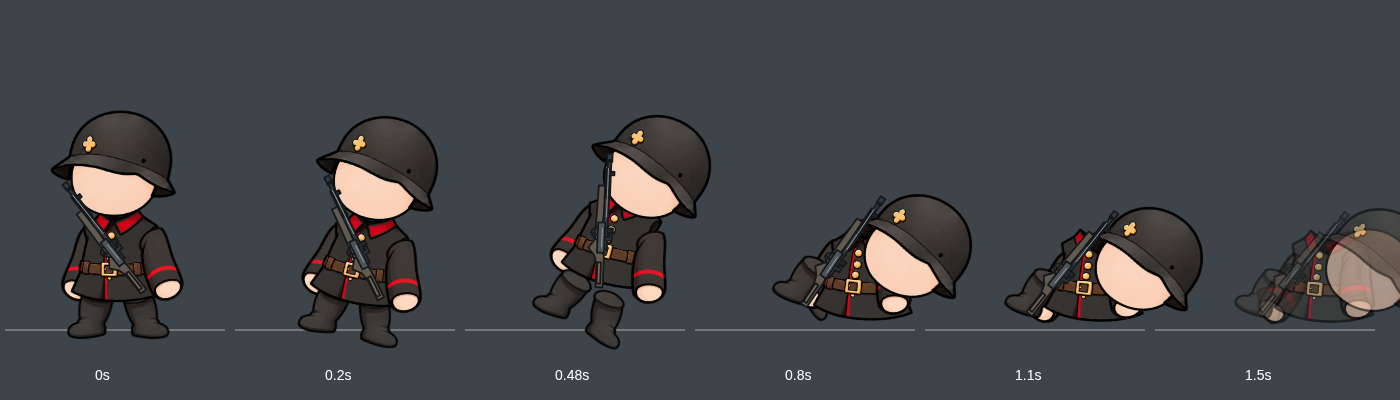
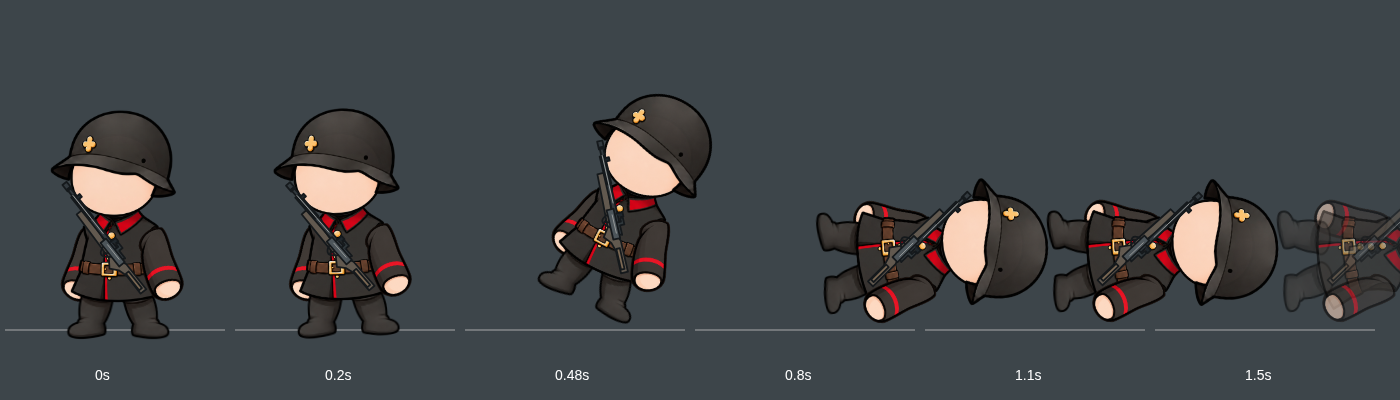
Replace death scatter with a connected body collapse and ground impact

Changed region(s): [[0.5529, 0.45, 1.0, 0.81], [0.1843, 0.27, 0.3379, 0.87], [0.3686, 0.24, 0.5221, 0.87]]

diff --git a/docs/SOLDIER_WORKSHOP.md b/docs/SOLDIER_WORKSHOP.md
@@ -18,7 +18,7 @@ The native images are from `uniform-parts-crops-1.zip`, with the four whole-arm 
 
 The rifle is now20% larger (141.6×35.4 rig units), with its original4:1 aspect ratio. Existing drafts enlarge once via `rifleRevision`; later edits retain their selected size.
 
-Death follows the staged whole-part release in FlowerWars-MINI (`0d4e7a5`, character engine): an initial stagger and foot-anchored fall, staggered part release, a short arc, spin, ground contact and damped bounce, then fade over the final0.35s of a1.7s sequence. Hats stay with heads and insignia with their clothing. No new art or limb segments are added. The battlefield corpse lifetime, cache sampling and workshop timeline use the same duration.
+Death now keeps the entire soldier connected: a brief loss of balance, an accelerating sideways fall, ground impact, a small damped rebound and a still body before fading. Head, hat, arms, legs, insignia and rifle share one body transform; none detach or scatter. Ground correction moves the complete silhouette together. Breathing stops at death. The battlefield, cache and editor share the1.7s duration.
 
 Firing keeps the edited rifle position fixed, eliminating aim-dependent jumps between arm-reach solutions. The arms rotate/translate as whole images without changing their configured scale. Their original palms follow the fore-end, trigger and bolt anchors.
 
@@ -46,7 +46,7 @@ The helper validates before atomically replacing `assets/soldiers/catalog.json`;
 
 ## Focused verification
 
-`node --test --test-isolation=none tests/characters.test.mjs`:13 passed. Checks include exact reference geometry, identical helmet transforms, repeated unification without drift, old-draft migration, unchanged PNG checksums, original aspect ratios, fixed arm scale, actual barrel-ray alignment through recoil/reload and both facings, reflected cache targets, rifle grip attachment, JSON round trips and pose bounds.
+`node --test --test-isolation=none tests/characters.test.mjs`:15 passed. Checks include exact reference geometry, identical helmet transforms, repeated unification without drift, old-draft migration, unchanged PNG checksums, original aspect ratios, fixed arm scale, actual barrel-ray alignment through recoil/reload and both facings, reflected cache targets, rifle grip attachment, JSON round trips and pose bounds.
 
 A real Chromium capture compares nation/rank physique and left/right firing, upward/downward aim and reload poses: `docs/soldier-evidence/physique-and-aim.png`. A focused live-game check also confirms the rendered barrel ray reaches four projected target directions, with no page errors.
 
